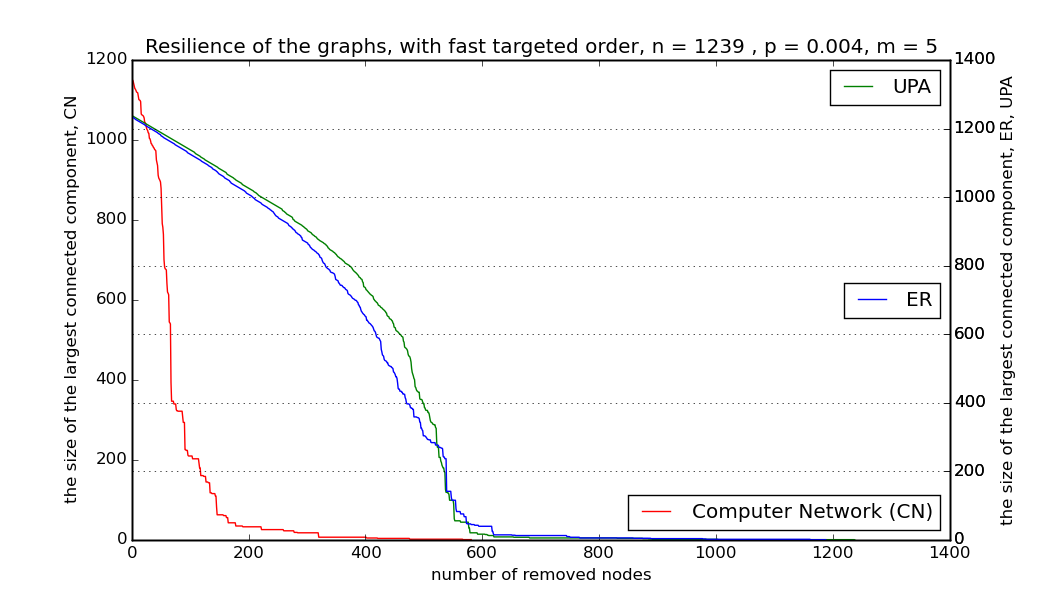
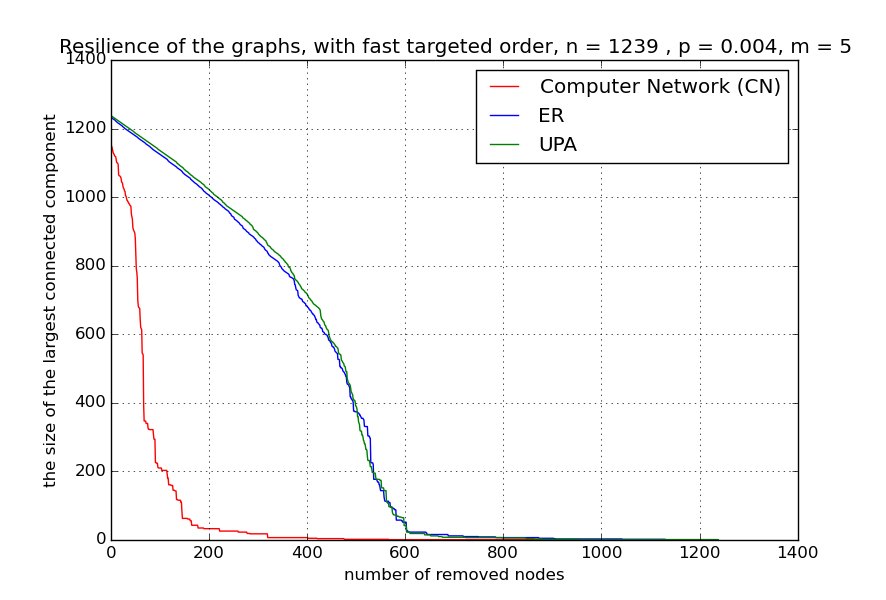
cc

diff --git a/connected_components_and_graph_resilience/cn_er_upa_ord.py b/connected_components_and_graph_resilience/cn_er_upa_ord.py
@@ -27,30 +27,22 @@ atack2 = fto.fast_targeted_order(er_ugraph)
 er_cr =cc.compute_resilience(er_ugraph, atack2)
 
 #upa 
-upa_graph = mupa.upa(int(mx), cnt)
+upa_graph = mupa.upa(int(mx), cnt) 
 atack3 = fto.fast_targeted_order(upa_graph)
 upa_cr =cc.compute_resilience(upa_graph, atack3)
 
-xcount = max([len(atack), len(atack2), len(atack3)])
+count = [x for x in xrange(len(cn_graph))]
 
 
-_, cnp =  plt.subplots()
-upap = cnp.twinx()
-erp = cnp.twinx()
-
-cnp.plot([x for x in xrange(len(atack))], cn_cr[1:], "r", label='Computer Network (CN)')
-erp.plot([x for x in xrange(len(atack2))], er_cr[1:], "b",  label='ER')
-upap.plot([x for x in xrange(len(atack3))], upa_cr[1:], "g", label='UPA')
+plt.plot(count, cn_cr[1:], "r", label='Computer Network (CN)')
+plt.plot(count, er_cr[1:], "b",  label='ER')
+plt.plot(count, upa_cr[1:], "g", label='UPA')
 
 title = 'Resilience of the graphs, with fast targeted order, n = {0} , p = {1}, m = {2}'.format(cnt, p, int(mx))
 plt.title(title)
 
-cnp.set_xlabel('number of removed nodes')
-cnp.set_ylabel('the size of the largest connected component, CN')
-erp.set_ylabel('the size of the largest connected component, ER, UPA')
-
-cnp.legend(loc='lower right')
-erp.legend(loc='center right')
-upap.legend(loc='upper right')
-erp.grid(True)
+plt.xlabel('number of removed nodes')
+plt.ylabel('the size of the largest connected component')
+plt.legend(loc='upper right')
+plt.grid(True)
 plt.show()

diff --git a/connected_components_and_graph_resilience/fto.py b/connected_components_and_graph_resilience/fto.py
@@ -20,7 +20,7 @@ def fast_targeted_order(ugraph):
         sdegree[cnt].add(node)
 
     rnodes = []    
-    for k in xrange(len(ugraph)-1, 0, -1):
+    for k in xrange(len(ugraph)-1, -1, -1):
         nodes = sdegree[k]
         while nodes:
             rnode = nodes.pop()
@@ -69,7 +69,7 @@ def time_run(ugraf, foo):
 
 if __name__ == "__main__":
     import sys
-    sys.path.append('/home/ilya/Documents/at/degree_distributions_for_graphs')
+    sys.path.append('../degree_distributions_for_graphs')
     import upa as mupa
     import matplotlib.pyplot as plt
  
@@ -82,7 +82,7 @@ if __name__ == "__main__":
         cntx += [cnt]
         upa_graph = mupa.upa(5, cnt)
         toy += [time_run(upa_graph, targeted_order)]
-        ftoy += [time_run(upa_graph, fast_target_order)]
+        ftoy += [time_run(upa_graph, fast_targeted_order)]
 
     plt.plot(cntx, toy, "r", label='Target Order')
     plt.plot(cntx, ftoy, "g", label='Fast Target Order')

diff --git a/connected_components_and_graph_resilience/cn_er_upa_degree.py b/connected_components_and_graph_resilience/cn_er_upa_degree.py
@@ -1,6 +1,6 @@
 import connected_components as cc
 import sys
-sys.path.append('/home/ilya/Documents/at/degree_distributions_for_graphs')
+sys.path.append('../degree_distributions_for_graphs')
 import ddg
 import upa as mupa
 import math, random
@@ -18,7 +18,7 @@ print mx, sum(graph.values())
 er_ugraph = ddg.make_complete_ugraph_p(cnt, mx*1.0/cnt)
 er_degre_distr = ddg.degree_distribution(er_ugraph)
 
-upa_graph = mupa.upa(int(mx), cnt)
+upa_graph = mupa.upa(int(mx), cnt) 
 upa_degre_distr = ddg.degree_distribution(upa_graph)
 
 graph2 = er_degre_distr

diff --git a/connected_components_and_graph_resilience/cn_er_upa.py b/connected_components_and_graph_resilience/cn_er_upa.py
@@ -1,6 +1,6 @@
 import connected_components as cc
 import sys
-sys.path.append('/home/ilya/Documents/at/degree_distributions_for_graphs')
+sys.path.append('../degree_distributions_for_graphs')
 import ddg
 import upa as mupa
 import math, random
@@ -27,7 +27,7 @@ er_ugraph = ddg.make_complete_ugraph_p(cnt, p)
 er_cr =cc.compute_resilience(er_ugraph, atack)
 
 #upa 
-upa_graph = mupa.upa(int(mx), cnt)
+upa_graph = mupa.upa(int(mx), cnt) # 
 upa_cr =cc.compute_resilience(upa_graph, atack)
 
 count = [x for x in xrange(len(atack))]
